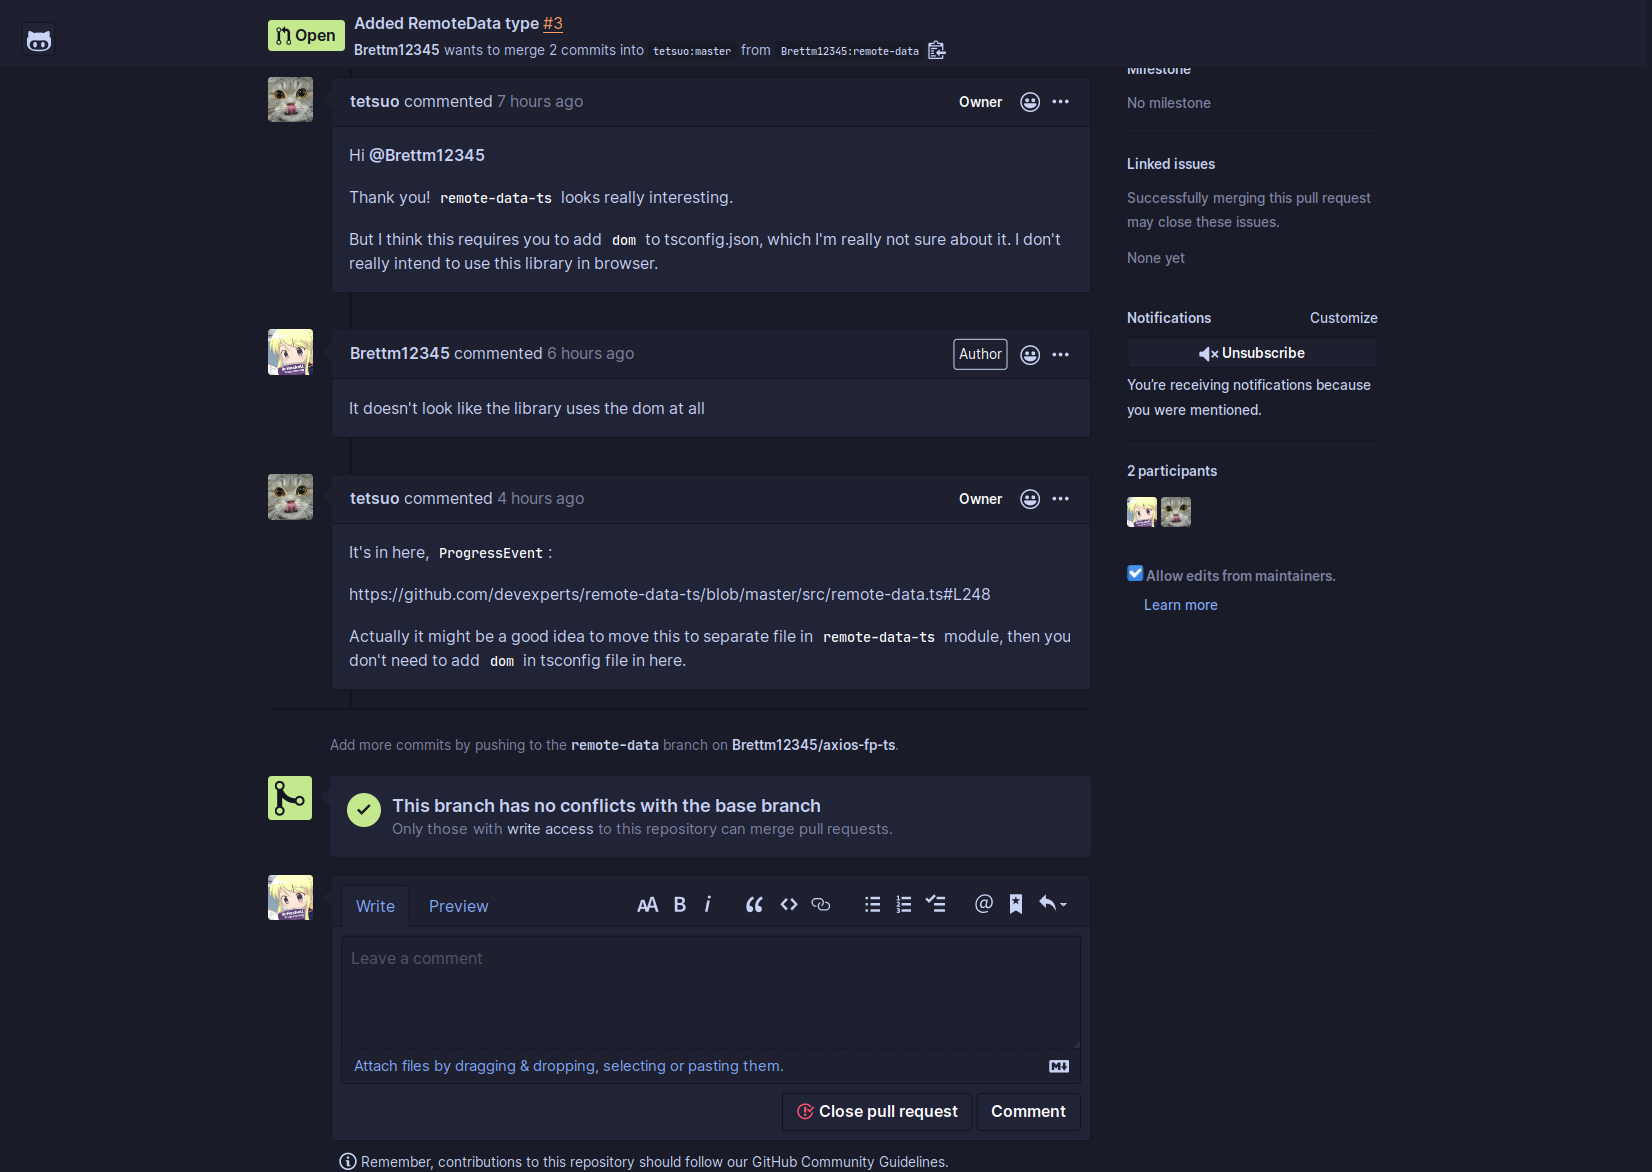
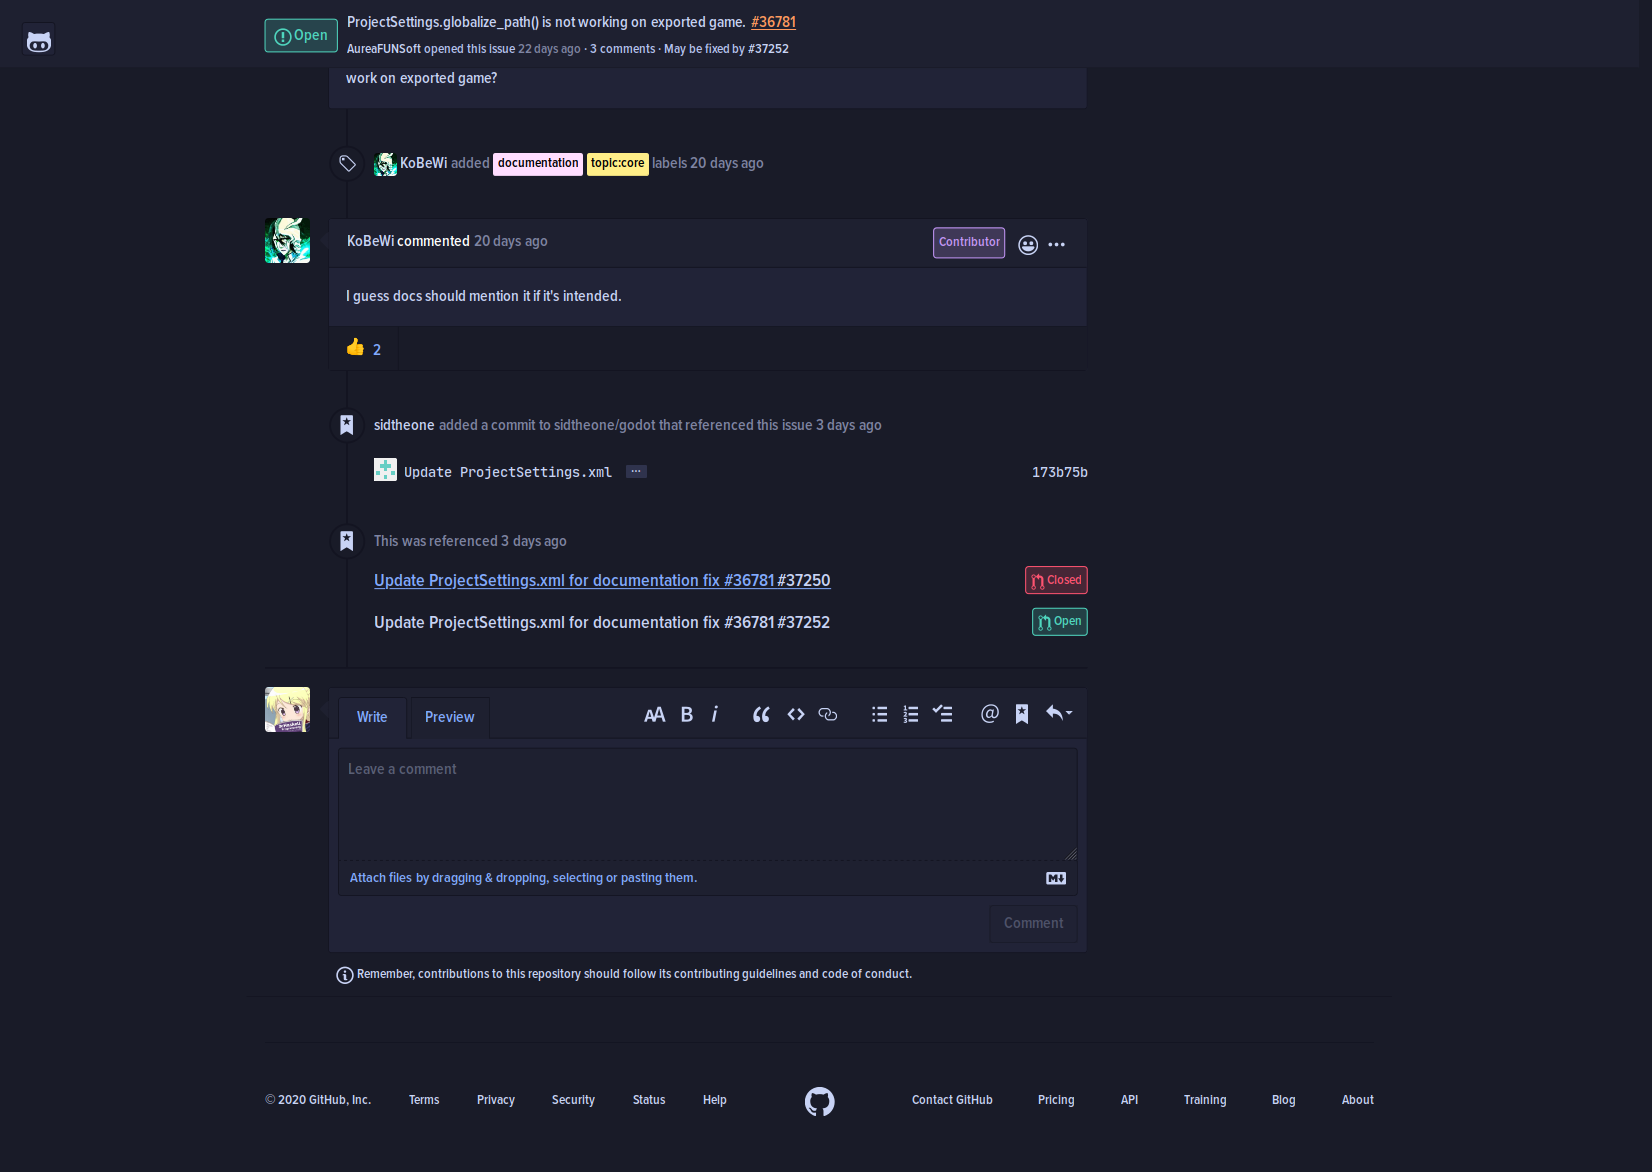
Update colors

diff --git a/github.user.css b/github.user.css
@@ -1,7 +1,7 @@
 /* ==UserStyle==
 @name         GitHub-Moonlight
 @namespace    https://github.com/brettm12345/github-moonlight
-@version      0.9.0
+@version      0.9.4
 @description  A dark blue github theme
 @author       brettm12345 <brettmandler@gmail.com> (https://github.com/brettm12345)
 @homepageURL  https://github.com/brettm12345/github-moonlight
@@ -1224,17 +1224,22 @@
     color: var(--text) !important;
   }
   .State--green {
-    color: var(--border) !important;
-    border-color: var(--green) !important;
-    background-color: var(--green) !important;
+    border: 1px solid var(--teal) !important;
+    color: var(--teal) !important;
+    border-color: var(--teal) !important;
+    background-color: var(--teal-trans) !important;
   }
   .State--green .octicon {
-    fill: var(--border);
+    fill: var(--teal);
   }
   .State--red {
-    color: var(--cn) !important;
+    border: 1px solid var(--red) !important;
+    color: var(--red) !important;
     border-color: var(--red) !important;
-    background-color: var(--red) !important;
+    background-color: var(--red-trans) !important;
+  }
+  .State--red .octicon {
+    fill: var(--red);
   }
   .notification-navigation .notification-configure-filters .octicon {
     color: var(--text) !important;
